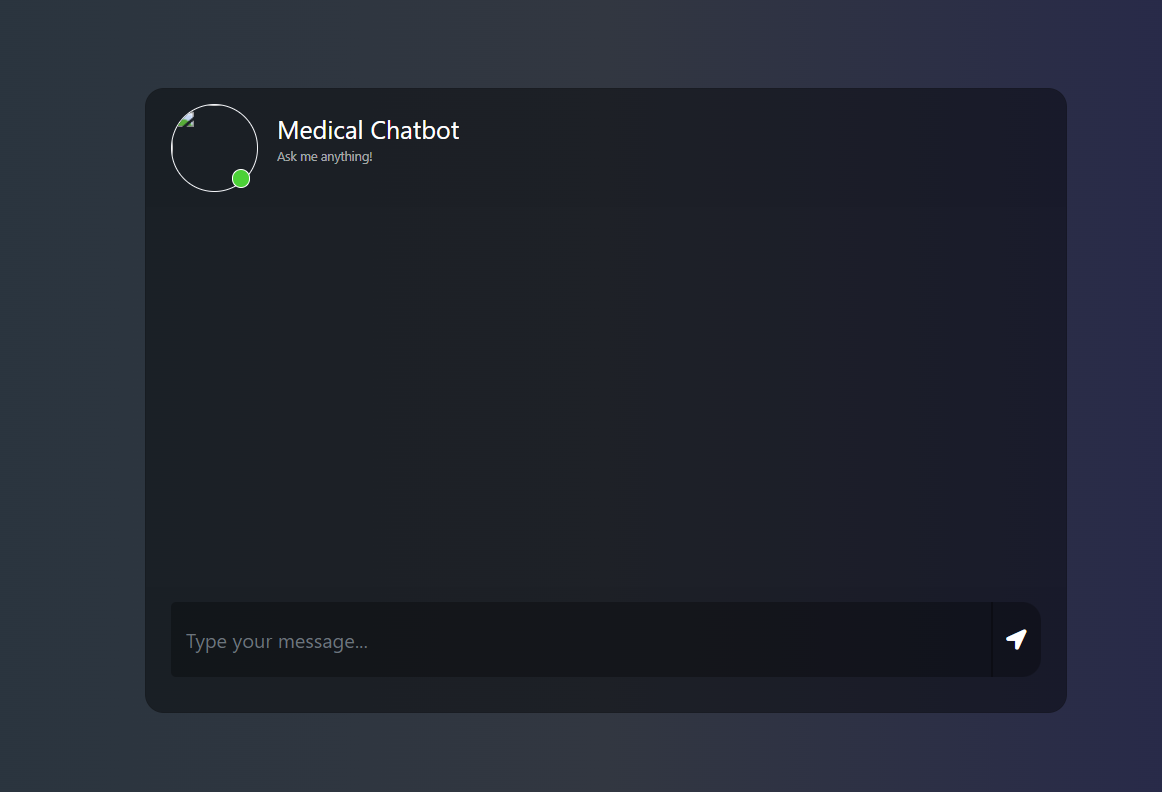
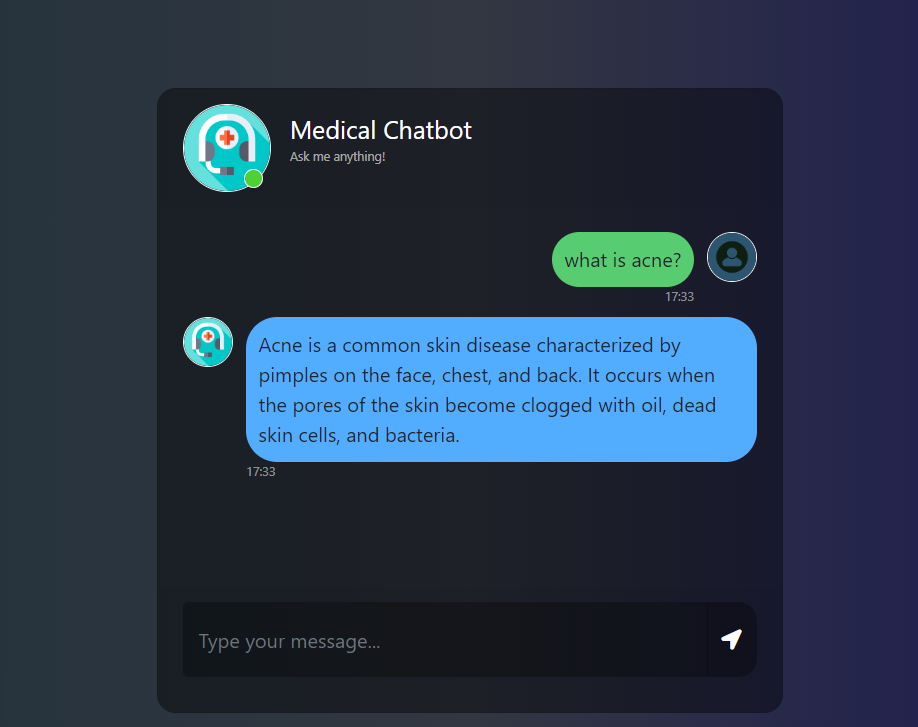
connect frontend with backen

Changed region(s): [[0.122, 0.0908, 0.9455, 0.9986]]

diff --git a/templates/chat.html b/templates/chat.html
@@ -22,7 +22,7 @@
 							<div class="d-flex bd-highlight">
 								<div class="img_cont">
 									<!-- <img src="https://i.ibb.co/fSNP7Rz/icons8-chatgpt-512.png" class="rounded-circle user_img"> -->
-									<img src="https://www.prdistribution.com/spirit/uploads/pressreleases/2019/newsreleases/d83341deb75c4c4f6b113f27b1e42cd8-chatbot-florence-already-helps-thousands-of-patients-to-remember-their-medication.png" class="rounded-circle user_img">
+									<img src="https://cdn-icons-png.flaticon.com/512/2858/2858022.png" class="rounded-circle user_img">
 									<span class="online_icon"></span>
 								</div>
 								<div class="user_info">
@@ -69,7 +69,7 @@
 						type: "POST",
 						url: "/get",
 					}).done(function(data) {
-						var botHtml = '<div class="d-flex justify-content-start mb-4"><div class="img_cont_msg"><img src="https://www.prdistribution.com/spirit/uploads/pressreleases/2019/newsreleases/d83341deb75c4c4f6b113f27b1e42cd8-chatbot-florence-already-helps-thousands-of-patients-to-remember-their-medication.png" class="rounded-circle user_img_msg"></div><div class="msg_cotainer">' + data + '<span class="msg_time">' + str_time + '</span></div></div>';
+						var botHtml = '<div class="d-flex justify-content-start mb-4"><div class="img_cont_msg"><img src="https://cdn-icons-png.flaticon.com/512/2858/2858022.png" class="rounded-circle user_img_msg"></div><div class="msg_cotainer">' + data + '<span class="msg_time">' + str_time + '</span></div></div>';
 						$("#messageFormeight").append($.parseHTML(botHtml));
 					});
 					event.preventDefault();

diff --git a/app.py b/app.py
@@ -62,5 +62,17 @@ def index():
     return render_template('chat.html')
 
 
+@app.route("/get", methods=['GET','POST'])
+def chat():
+    print("im am in")
+    msg=request.form['msg']
+    input=msg
+    print(input)
+    result=qa({'query':input})
+    print("Response : ", result['result'])
+    return str(result['result'])
+
 if __name__=='__main__':
     app.run(host='0.0.0.0',port='8080',debug=True)
+
+
